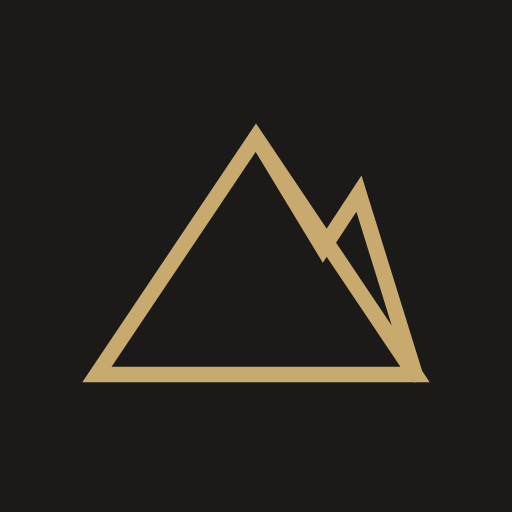
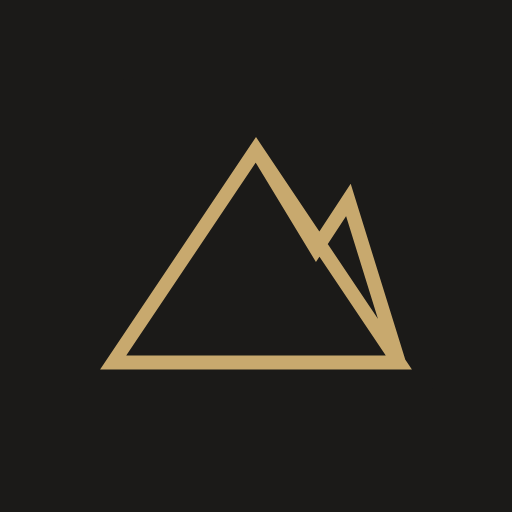
Update

Changed region(s): [[0.1562, 0.25, 0.8438, 0.75]]

diff --git a/CHANGELOG.md b/CHANGELOG.md
@@ -99,3 +99,6 @@ Dark theme default, light toggle. EN default, EL secondary. 24h clock.
 - Fixed swapped icon purposes in manifest: icon-192/512.png now "any",
   icon-maskable-192/512.png now "maskable" (was inverted — Android picked
   the full-bleed icon for circular masking, cropping the logo).
+- Maskable icons regenerated at 70% inner scale (was 78%) —
+  adaptive-icon safe zone is a 61% circle; mountain corners were
+  grazing the mask boundary. Any-purpose icons unchanged.
